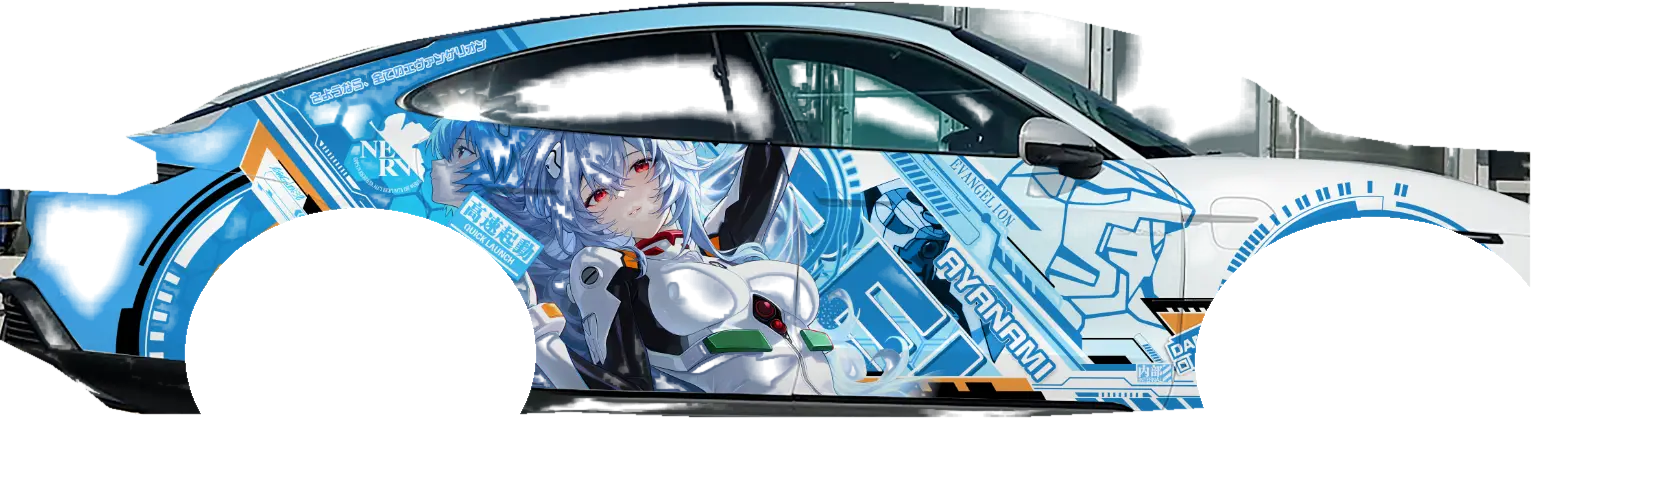
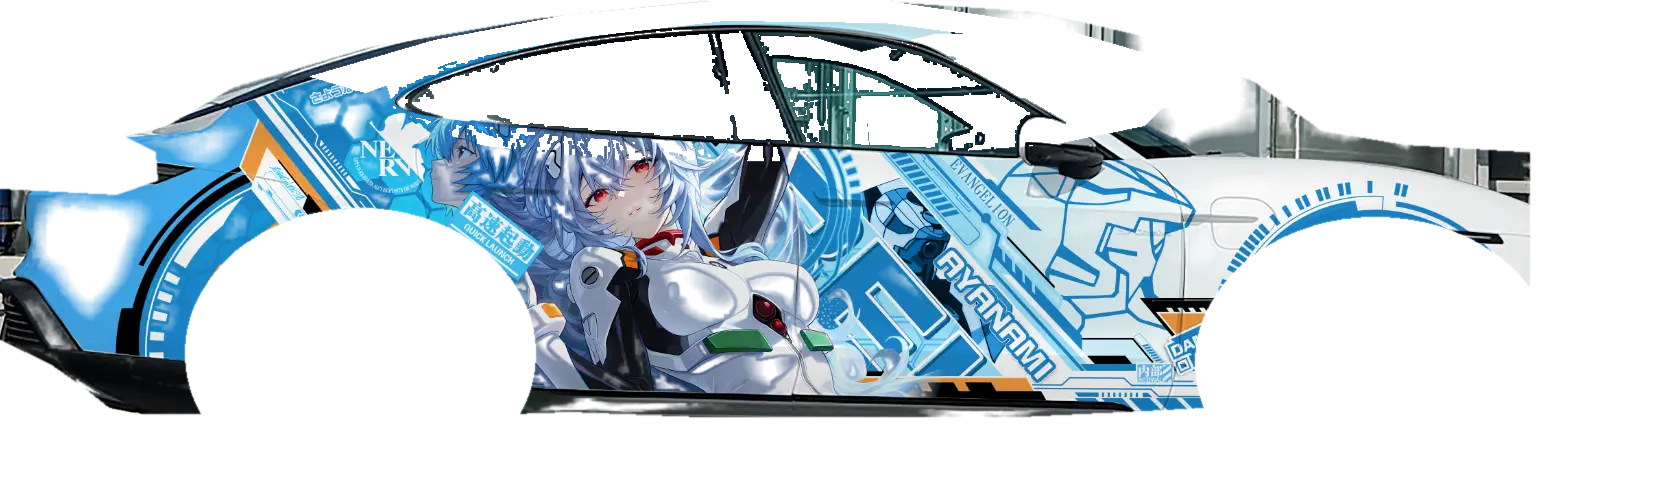
Fix roof/window: keep design strokes only, no photographic content

Changed region(s): [[0.1865, 0.0, 0.7149, 0.3402]]

diff --git a/utils/process_livery.py b/utils/process_livery.py
@@ -222,6 +222,74 @@ def paint_mask(name, image, carmask):
         # Gaussian edge smoothing can bleed a faint pixel back over an exclusion.
         for x,y,rx,ry in wheel_masks:
             cv2.ellipse(alpha,(x,y),(rx,ry),0,0,360,0,-1)
+        # Separate the photographed roof and glazing from the wrapped body.
+        # Coordinates follow the visible surface boundaries in each calibrated
+        # side photo (the broad photo envelope above is only a safety boundary).
+        def region(points):
+            m=np.zeros((h,w),np.uint8)
+            cv2.fillPoly(m,[np.asarray(points,np.int32)],255)
+            return m
+        if name == 'right':
+            roof=region([(500,108),(615,72),(758,25),(920,3),(1090,0),(1245,13),
+                         (1404,42),(1510,75),(1445,73),(1285,40),(1120,24),
+                         (958,25),(812,42),(680,83),(600,117)])
+            glass=np.maximum(
+                region([(605,101),(775,49),(938,27),(1057,35),(1101,59),
+                        (1094,161),(1002,174),(831,181),(695,174),(590,145)]),
+                region([(1090,57),(1170,37),(1328,32),(1466,62),(1567,103),
+                        (1553,145),(1481,160),(1322,169),(1171,169),(1092,160)])
+            )
+            sill_y=170
+        else:
+            roof=region([(310,76),(434,40),(566,15),(724,0),(887,1),(1048,25),
+                         (1172,61),(1240,87),(1168,78),(1040,43),(884,22),
+                         (724,20),(577,37),(452,61),(365,92)])
+            glass=np.maximum(
+                region([(386,82),(494,48),(648,29),(796,32),(861,52),
+                        (868,147),(778,160),(620,159),(485,145),(397,119)]),
+                region([(860,52),(935,34),(1034,35),(1113,57),(1182,87),
+                        (1144,125),(1056,143),(948,151),(870,146)])
+            )
+            sill_y=152
+
+        # The matte below is the existing door/fender classifier. Keep the
+        # same rule on body panels, but classify the glass with both sharpness
+        # and colour evidence. A 2.2 px Gaussian high-pass rejects smooth
+        # reflections; a 45/255 HSV saturation floor rejects bright neutral
+        # reflections and interior gradients. Pixels need >=10/255 high-pass.
+        body_print=alpha.copy()
+        roof=(roof>0)&(alpha>0)
+        alpha[roof]=0
+        glass_region=(glass>0)&(alpha>0)
+        if np.any(glass_region):
+            highpass=cv2.absdiff(image,cv2.GaussianBlur(image,(0,0),2.2))
+            response=cv2.cvtColor(highpass,cv2.COLOR_BGR2GRAY)
+            saturation=cv2.cvtColor(image,cv2.COLOR_BGR2HSV)[:,:,1]
+            printed=((response>=10)&(saturation>=45)&glass_region).astype(np.uint8)
+            # Carry the thin antialiased ink interior by at most 2 px. Then
+            # keep only components connected to printed artwork immediately
+            # below the sill, allowing a door stroke to continue onto glass.
+            printed=cv2.dilate(printed,np.ones((3,3),np.uint8))
+            count,labels=cv2.connectedComponents(printed,8)
+            sill_band=np.zeros((h,w),np.uint8)
+            y0=max(0,sill_y-12); y1=min(h,sill_y+10)
+            sill_band[y0:y1,:]=255
+            door_seeds=cv2.dilate((body_print>0).astype(np.uint8),np.ones((9,9),np.uint8))
+            seeded_labels=np.unique(labels[(glass_region)&(sill_band>0)&(door_seeds>0)])
+            seeded_labels=seeded_labels[seeded_labels!=0]
+            kept=np.isin(labels,seeded_labels).astype(np.uint8)*255 if len(seeded_labels) else printed*255
+            # Glass is transparent except the detected connected print.
+            alpha[glass_region]=0
+            alpha[glass_region & (kept>0)]=255
+        # Reassert the source structural masks after classification/AA.
+        alpha[roof]=0
+        alpha=cv2.GaussianBlur(alpha,(3,3),.55)
+        alpha[roof]=0
+        alpha[glass_region]=0
+        alpha[glass_region & (kept>0)]=255
+        print(f'{name}: roof artwork coverage=0.00%; glass printed coverage='
+              f'{100*np.count_nonzero(alpha[glass>0])/max(1,np.count_nonzero(glass)):.2f}% '
+              f'(HP>=10/255, HSV saturation>=45/255, 2.2px high-pass; seeded connected strokes)')
     rgba=cv2.cvtColor(image,cv2.COLOR_BGR2BGRA); rgba[:,:,3]=alpha
     return rgba
 
